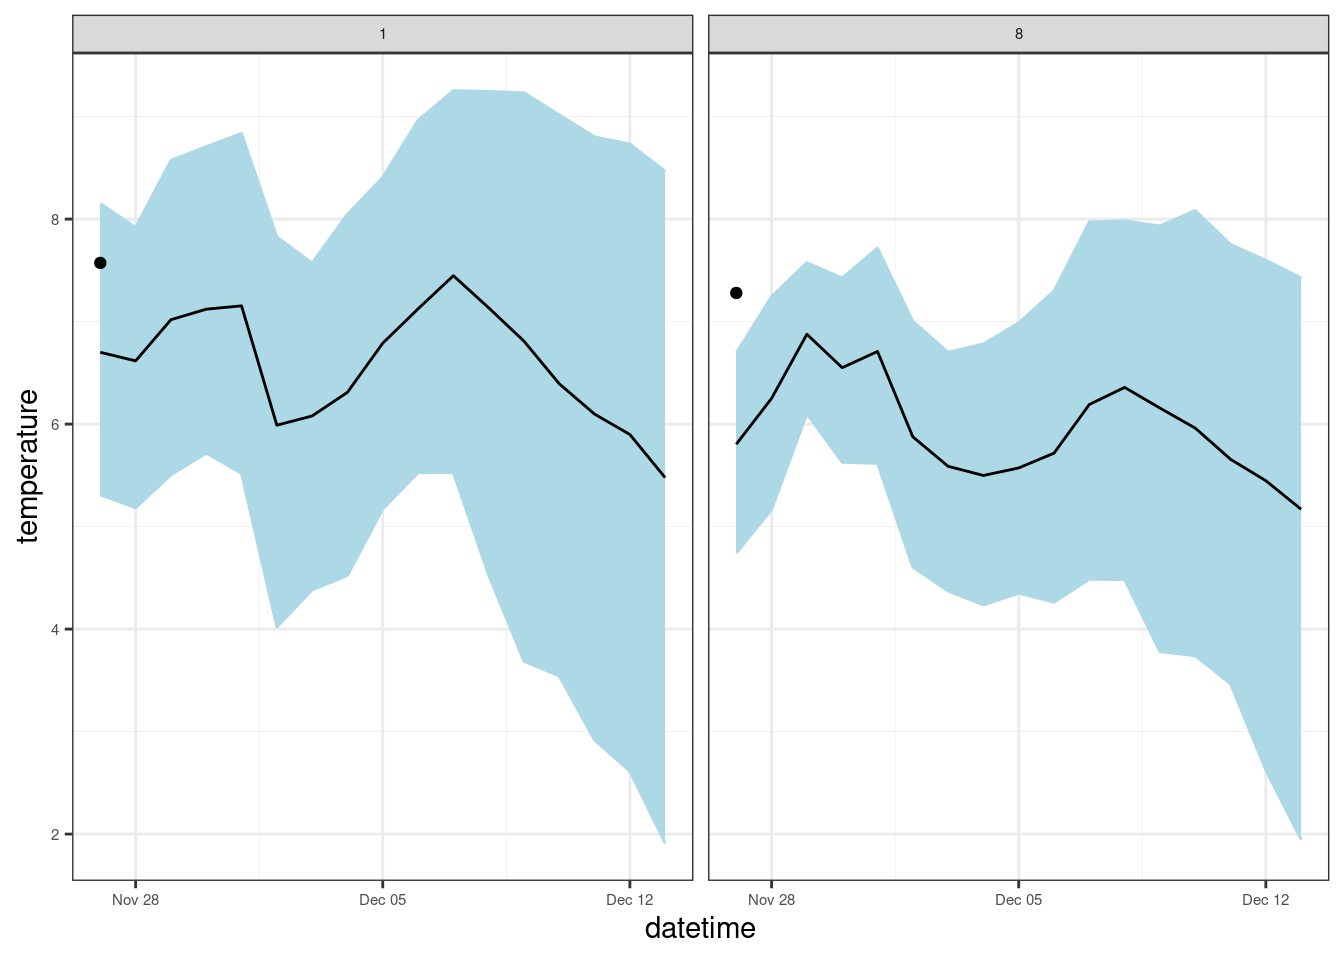
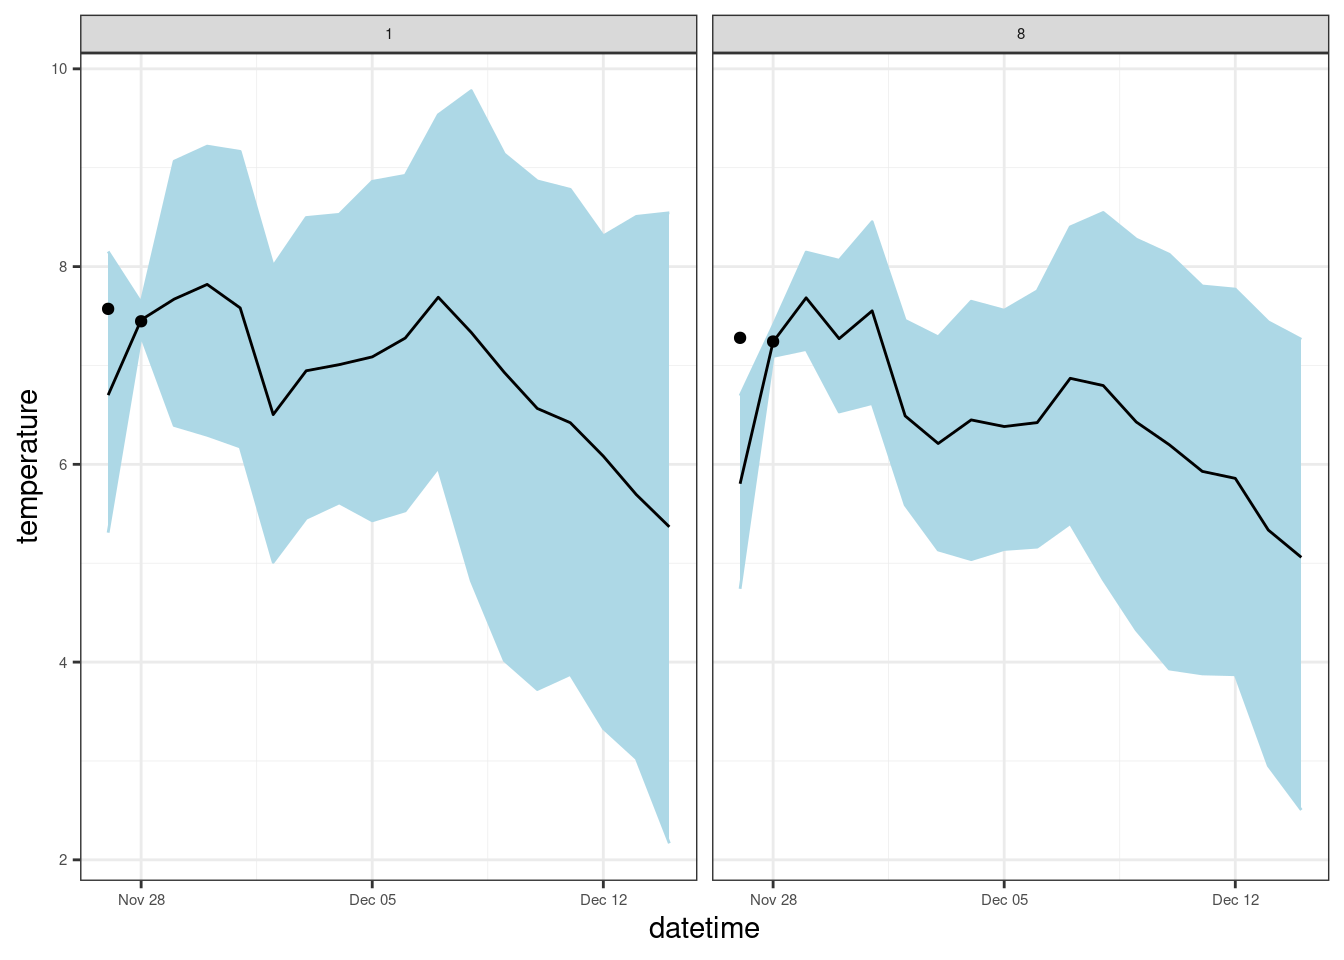
Re-build site

diff --git a/docs/index.html b/docs/index.html
@@ -158,15 +158,15 @@ background-size: cover;
 
 
 <p>Welcome to the Forecasting Lake and Reservoir Ecosystems (FLARE) dashboard!</p>
-<p>This page was last updated on 2022-11-28 07:22:42</p>
+<p>This page was last updated on 2022-11-28 11:39:15</p>
 <p>This site provides daily updates to visualize recent forecasts generated across the U.S.. This site is generated using <a href="https://quarto.org">quarto</a> and should be simple to customize for users familiar with RMarkdown. It is rendered daily using GitHub Actions.</p>
 <section id="flare-sites" class="level3">
 <h3 class="anchored" data-anchor-id="flare-sites">FLARE sites</h3>
 <div class="cell" data-fig.showtext="false">
 <div class="cell-output-display">
 
-<div id="htmlwidget-63def1cd5838476f63fb" style="width:100%;height:650px;" class="leaflet html-widget"></div>
-<script type="application/json" data-for="htmlwidget-63def1cd5838476f63fb">{"x":{"options":{"crs":{"crsClass":"L.CRS.EPSG3857","code":null,"proj4def":null,"projectedBounds":null,"options":{}}},"calls":[{"method":"createMapPane","args":["tmap401",401]},{"method":"addProviderTiles","args":["Esri.WorldGrayCanvas",null,"Esri.WorldGrayCanvas",{"minZoom":0,"maxZoom":18,"tileSize":256,"subdomains":"abc","errorTileUrl":"","tms":false,"noWrap":false,"zoomOffset":0,"zoomReverse":false,"opacity":1,"zIndex":1,"detectRetina":false,"pane":"tilePane"}]},{"method":"addProviderTiles","args":["OpenStreetMap",null,"OpenStreetMap",{"minZoom":0,"maxZoom":18,"tileSize":256,"subdomains":"abc","errorTileUrl":"","tms":false,"noWrap":false,"zoomOffset":0,"zoomReverse":false,"opacity":1,"zIndex":1,"detectRetina":false,"pane":"tilePane"}]},{"method":"addProviderTiles","args":["Esri.WorldTopoMap",null,"Esri.WorldTopoMap",{"minZoom":0,"maxZoom":18,"tileSize":256,"subdomains":"abc","errorTileUrl":"","tms":false,"noWrap":false,"zoomOffset":0,"zoomReverse":false,"opacity":1,"zIndex":1,"detectRetina":false,"pane":"tilePane"}]},{"method":"addCircles","args":[[36.7844114061088,37.6635965171619,43.9066902708153,35.0195968898079,31.7168425857225,44.2595413892778,46.9811335801907,48.7357220988727,48.3383190032058,31.5174265790204,-35.8228460313234],[-79.127080854061,-81.8271014712021,-72.9326243179281,-80.2185653118084,-82.1711863621007,-90.7793338521431,-91.2250862719393,-97.615418991158,-99.4818959119374,-82.7565754496066,138.492164102327],[206172.540166362,206172.540166362,206172.540166362,206172.540166362,206172.540166362,206172.540166362,206172.540166362,206172.540166362,206172.540166362,206172.540166362,206172.540166362],["Falling.Creek","Beaver.Dam","Lake.Sunapee","Carvins.Cove.Reservoir","Barco.Lake","Crampton.Lake","Little.Rock.Lake","Prairie.Lake","Prairie.Pothole","Suggs.Lake","Lake.Alexandrina"],"neon",{"interactive":true,"className":"","pane":"tmap401","stroke":true,"color":"#666666","weight":1,"opacity":0.5,"fill":true,"fillColor":["#FB8072","#FB8072","#8DD3C7","#FB8072","#FFFFB3","#FFFFB3","#FFFFB3","#FFFFB3","#FFFFB3","#FFFFB3","#BEBADA"],"fillOpacity":[1,1,1,1,1,1,1,1,1,1,1]},["<style> div.leaflet-popup-content {width:auto !important;overflow-y:auto; overflow-x:hidden;}<\/style><div style=\"max-height:25em;padding-right:0px;\"><table>\n\t\t\t   <thead><tr><th colspan=\"2\"><b>Falling Creek<\/b><\/th><\/thead><\/tr><tr><td style=\"color: #888888;\"><nobr>site_id<\/nobr><\/td><td align=\"right\"><nobr>Falling Creek<\/nobr><\/td><\/tr><\/table><\/div>","<style> div.leaflet-popup-content {width:auto !important;overflow-y:auto; overflow-x:hidden;}<\/style><div style=\"max-height:25em;padding-right:0px;\"><table>\n\t\t\t   <thead><tr><th colspan=\"2\"><b>Beaver Dam<\/b><\/th><\/thead><\/tr><tr><td style=\"color: #888888;\"><nobr>site_id<\/nobr><\/td><td align=\"right\"><nobr>Beaver Dam<\/nobr><\/td><\/tr><\/table><\/div>","<style> div.leaflet-popup-content {width:auto !important;overflow-y:auto; overflow-x:hidden;}<\/style><div style=\"max-height:25em;padding-right:0px;\"><table>\n\t\t\t   <thead><tr><th colspan=\"2\"><b>Lake Sunapee<\/b><\/th><\/thead><\/tr><tr><td style=\"color: #888888;\"><nobr>site_id<\/nobr><\/td><td align=\"right\"><nobr>Lake Sunapee<\/nobr><\/td><\/tr><\/table><\/div>","<style> div.leaflet-popup-content {width:auto !important;overflow-y:auto; overflow-x:hidden;}<\/style><div style=\"max-height:25em;padding-right:0px;\"><table>\n\t\t\t   <thead><tr><th colspan=\"2\"><b>Carvins Cove Reservoir<\/b><\/th><\/thead><\/tr><tr><td style=\"color: #888888;\"><nobr>site_id<\/nobr><\/td><td align=\"right\"><nobr>Carvins Cove Reservoir<\/nobr><\/td><\/tr><\/table><\/div>","<style> div.leaflet-popup-content {width:auto !important;overflow-y:auto; overflow-x:hidden;}<\/style><div style=\"max-height:25em;padding-right:0px;\"><table>\n\t\t\t   <thead><tr><th colspan=\"2\"><b>Barco Lake<\/b><\/th><\/thead><\/tr><tr><td style=\"color: #888888;\"><nobr>site_id<\/nobr><\/td><td align=\"right\"><nobr>Barco Lake<\/nobr><\/td><\/tr><\/table><\/div>","<style> div.leaflet-popup-content {width:auto !important;overflow-y:auto; overflow-x:hidden;}<\/style><div style=\"max-height:25em;padding-right:0px;\"><table>\n\t\t\t   <thead><tr><th colspan=\"2\"><b>Crampton Lake<\/b><\/th><\/thead><\/tr><tr><td style=\"color: #888888;\"><nobr>site_id<\/nobr><\/td><td align=\"right\"><nobr>Crampton Lake<\/nobr><\/td><\/tr><\/table><\/div>","<style> div.leaflet-popup-content {width:auto !important;overflow-y:auto; overflow-x:hidden;}<\/style><div style=\"max-height:25em;padding-right:0px;\"><table>\n\t\t\t   <thead><tr><th colspan=\"2\"><b>Little Rock Lake<\/b><\/th><\/thead><\/tr><tr><td style=\"color: #888888;\"><nobr>site_id<\/nobr><\/td><td align=\"right\"><nobr>Little Rock Lake<\/nobr><\/td><\/tr><\/table><\/div>","<style> div.leaflet-popup-content {width:auto !important;overflow-y:auto; overflow-x:hidden;}<\/style><div style=\"max-height:25em;padding-right:0px;\"><table>\n\t\t\t   <thead><tr><th colspan=\"2\"><b>Prairie Lake<\/b><\/th><\/thead><\/tr><tr><td style=\"color: #888888;\"><nobr>site_id<\/nobr><\/td><td align=\"right\"><nobr>Prairie Lake<\/nobr><\/td><\/tr><\/table><\/div>","<style> div.leaflet-popup-content {width:auto !important;overflow-y:auto; overflow-x:hidden;}<\/style><div style=\"max-height:25em;padding-right:0px;\"><table>\n\t\t\t   <thead><tr><th colspan=\"2\"><b>Prairie Pothole<\/b><\/th><\/thead><\/tr><tr><td style=\"color: #888888;\"><nobr>site_id<\/nobr><\/td><td align=\"right\"><nobr>Prairie Pothole<\/nobr><\/td><\/tr><\/table><\/div>","<style> div.leaflet-popup-content {width:auto !important;overflow-y:auto; overflow-x:hidden;}<\/style><div style=\"max-height:25em;padding-right:0px;\"><table>\n\t\t\t   <thead><tr><th colspan=\"2\"><b>Suggs Lake<\/b><\/th><\/thead><\/tr><tr><td style=\"color: #888888;\"><nobr>site_id<\/nobr><\/td><td align=\"right\"><nobr>Suggs Lake<\/nobr><\/td><\/tr><\/table><\/div>","<style> div.leaflet-popup-content {width:auto !important;overflow-y:auto; overflow-x:hidden;}<\/style><div style=\"max-height:25em;padding-right:0px;\"><table>\n\t\t\t   <thead><tr><th colspan=\"2\"><b>Lake Alexandrina<\/b><\/th><\/thead><\/tr><tr><td style=\"color: #888888;\"><nobr>site_id<\/nobr><\/td><td align=\"right\"><nobr>Lake Alexandrina<\/nobr><\/td><\/tr><\/table><\/div>"],null,["Falling Creek","Beaver Dam","Lake Sunapee","Carvins Cove Reservoir","Barco Lake","Crampton Lake","Little Rock Lake","Prairie Lake","Prairie Pothole","Suggs Lake","Lake Alexandrina"],{"interactive":false,"permanent":false,"direction":"auto","opacity":1,"offset":[0,0],"textsize":"10px","textOnly":false,"className":"","sticky":true},null,null]},{"method":"addLegend","args":[{"colors":["#8DD3C7","#FFFFB3","#BEBADA","#FB8072"],"labels":["LSPA","NEON","UWA","WVWA"],"na_color":null,"na_label":"NA","opacity":1,"position":"topright","type":"unknown","title":"Partner","extra":null,"layerId":"legend401","className":"info legend neon","group":"neon"}]},{"method":"addLayersControl","args":[["Esri.WorldGrayCanvas","OpenStreetMap","Esri.WorldTopoMap"],"neon",{"collapsed":true,"autoZIndex":true,"position":"topleft"}]}],"limits":{"lat":[-35.8228460313234,48.7357220988727],"lng":[-99.4818959119374,138.492164102327]},"fitBounds":[-35.436808,-74,48,139.168997,[]]},"evals":[],"jsHooks":[]}</script>
+<div id="htmlwidget-2361fc96b042ea8dcdb6" style="width:100%;height:650px;" class="leaflet html-widget"></div>
+<script type="application/json" data-for="htmlwidget-2361fc96b042ea8dcdb6">{"x":{"options":{"crs":{"crsClass":"L.CRS.EPSG3857","code":null,"proj4def":null,"projectedBounds":null,"options":{}}},"calls":[{"method":"createMapPane","args":["tmap401",401]},{"method":"addProviderTiles","args":["Esri.WorldGrayCanvas",null,"Esri.WorldGrayCanvas",{"minZoom":0,"maxZoom":18,"tileSize":256,"subdomains":"abc","errorTileUrl":"","tms":false,"noWrap":false,"zoomOffset":0,"zoomReverse":false,"opacity":1,"zIndex":1,"detectRetina":false,"pane":"tilePane"}]},{"method":"addProviderTiles","args":["OpenStreetMap",null,"OpenStreetMap",{"minZoom":0,"maxZoom":18,"tileSize":256,"subdomains":"abc","errorTileUrl":"","tms":false,"noWrap":false,"zoomOffset":0,"zoomReverse":false,"opacity":1,"zIndex":1,"detectRetina":false,"pane":"tilePane"}]},{"method":"addProviderTiles","args":["Esri.WorldTopoMap",null,"Esri.WorldTopoMap",{"minZoom":0,"maxZoom":18,"tileSize":256,"subdomains":"abc","errorTileUrl":"","tms":false,"noWrap":false,"zoomOffset":0,"zoomReverse":false,"opacity":1,"zIndex":1,"detectRetina":false,"pane":"tilePane"}]},{"method":"addCircles","args":[[39.2262916090598,36.2014532058894,46.9071598555944,37.5124168016075,29.611116909531,45.0130404260584,45.6470605417988,49.25318463707,48.8258954623463,29.8644715088903,-35.9375854024138],[-80.7366688268702,-81.4814424727628,-72.7449140701134,-82.9376247550489,-82.5941404467399,-88.1678075505337,-88.4910733218159,-97.9314191939506,-99.130187997801,-81.3405219091515,139.414648039075],[206172.540166362,206172.540166362,206172.540166362,206172.540166362,206172.540166362,206172.540166362,206172.540166362,206172.540166362,206172.540166362,206172.540166362,206172.540166362],["Falling.Creek","Beaver.Dam","Lake.Sunapee","Carvins.Cove.Reservoir","Barco.Lake","Crampton.Lake","Little.Rock.Lake","Prairie.Lake","Prairie.Pothole","Suggs.Lake","Lake.Alexandrina"],"neon",{"interactive":true,"className":"","pane":"tmap401","stroke":true,"color":"#666666","weight":1,"opacity":0.5,"fill":true,"fillColor":["#FB8072","#FB8072","#8DD3C7","#FB8072","#FFFFB3","#FFFFB3","#FFFFB3","#FFFFB3","#FFFFB3","#FFFFB3","#BEBADA"],"fillOpacity":[1,1,1,1,1,1,1,1,1,1,1]},["<style> div.leaflet-popup-content {width:auto !important;overflow-y:auto; overflow-x:hidden;}<\/style><div style=\"max-height:25em;padding-right:0px;\"><table>\n\t\t\t   <thead><tr><th colspan=\"2\"><b>Falling Creek<\/b><\/th><\/thead><\/tr><tr><td style=\"color: #888888;\"><nobr>site_id<\/nobr><\/td><td align=\"right\"><nobr>Falling Creek<\/nobr><\/td><\/tr><\/table><\/div>","<style> div.leaflet-popup-content {width:auto !important;overflow-y:auto; overflow-x:hidden;}<\/style><div style=\"max-height:25em;padding-right:0px;\"><table>\n\t\t\t   <thead><tr><th colspan=\"2\"><b>Beaver Dam<\/b><\/th><\/thead><\/tr><tr><td style=\"color: #888888;\"><nobr>site_id<\/nobr><\/td><td align=\"right\"><nobr>Beaver Dam<\/nobr><\/td><\/tr><\/table><\/div>","<style> div.leaflet-popup-content {width:auto !important;overflow-y:auto; overflow-x:hidden;}<\/style><div style=\"max-height:25em;padding-right:0px;\"><table>\n\t\t\t   <thead><tr><th colspan=\"2\"><b>Lake Sunapee<\/b><\/th><\/thead><\/tr><tr><td style=\"color: #888888;\"><nobr>site_id<\/nobr><\/td><td align=\"right\"><nobr>Lake Sunapee<\/nobr><\/td><\/tr><\/table><\/div>","<style> div.leaflet-popup-content {width:auto !important;overflow-y:auto; overflow-x:hidden;}<\/style><div style=\"max-height:25em;padding-right:0px;\"><table>\n\t\t\t   <thead><tr><th colspan=\"2\"><b>Carvins Cove Reservoir<\/b><\/th><\/thead><\/tr><tr><td style=\"color: #888888;\"><nobr>site_id<\/nobr><\/td><td align=\"right\"><nobr>Carvins Cove Reservoir<\/nobr><\/td><\/tr><\/table><\/div>","<style> div.leaflet-popup-content {width:auto !important;overflow-y:auto; overflow-x:hidden;}<\/style><div style=\"max-height:25em;padding-right:0px;\"><table>\n\t\t\t   <thead><tr><th colspan=\"2\"><b>Barco Lake<\/b><\/th><\/thead><\/tr><tr><td style=\"color: #888888;\"><nobr>site_id<\/nobr><\/td><td align=\"right\"><nobr>Barco Lake<\/nobr><\/td><\/tr><\/table><\/div>","<style> div.leaflet-popup-content {width:auto !important;overflow-y:auto; overflow-x:hidden;}<\/style><div style=\"max-height:25em;padding-right:0px;\"><table>\n\t\t\t   <thead><tr><th colspan=\"2\"><b>Crampton Lake<\/b><\/th><\/thead><\/tr><tr><td style=\"color: #888888;\"><nobr>site_id<\/nobr><\/td><td align=\"right\"><nobr>Crampton Lake<\/nobr><\/td><\/tr><\/table><\/div>","<style> div.leaflet-popup-content {width:auto !important;overflow-y:auto; overflow-x:hidden;}<\/style><div style=\"max-height:25em;padding-right:0px;\"><table>\n\t\t\t   <thead><tr><th colspan=\"2\"><b>Little Rock Lake<\/b><\/th><\/thead><\/tr><tr><td style=\"color: #888888;\"><nobr>site_id<\/nobr><\/td><td align=\"right\"><nobr>Little Rock Lake<\/nobr><\/td><\/tr><\/table><\/div>","<style> div.leaflet-popup-content {width:auto !important;overflow-y:auto; overflow-x:hidden;}<\/style><div style=\"max-height:25em;padding-right:0px;\"><table>\n\t\t\t   <thead><tr><th colspan=\"2\"><b>Prairie Lake<\/b><\/th><\/thead><\/tr><tr><td style=\"color: #888888;\"><nobr>site_id<\/nobr><\/td><td align=\"right\"><nobr>Prairie Lake<\/nobr><\/td><\/tr><\/table><\/div>","<style> div.leaflet-popup-content {width:auto !important;overflow-y:auto; overflow-x:hidden;}<\/style><div style=\"max-height:25em;padding-right:0px;\"><table>\n\t\t\t   <thead><tr><th colspan=\"2\"><b>Prairie Pothole<\/b><\/th><\/thead><\/tr><tr><td style=\"color: #888888;\"><nobr>site_id<\/nobr><\/td><td align=\"right\"><nobr>Prairie Pothole<\/nobr><\/td><\/tr><\/table><\/div>","<style> div.leaflet-popup-content {width:auto !important;overflow-y:auto; overflow-x:hidden;}<\/style><div style=\"max-height:25em;padding-right:0px;\"><table>\n\t\t\t   <thead><tr><th colspan=\"2\"><b>Suggs Lake<\/b><\/th><\/thead><\/tr><tr><td style=\"color: #888888;\"><nobr>site_id<\/nobr><\/td><td align=\"right\"><nobr>Suggs Lake<\/nobr><\/td><\/tr><\/table><\/div>","<style> div.leaflet-popup-content {width:auto !important;overflow-y:auto; overflow-x:hidden;}<\/style><div style=\"max-height:25em;padding-right:0px;\"><table>\n\t\t\t   <thead><tr><th colspan=\"2\"><b>Lake Alexandrina<\/b><\/th><\/thead><\/tr><tr><td style=\"color: #888888;\"><nobr>site_id<\/nobr><\/td><td align=\"right\"><nobr>Lake Alexandrina<\/nobr><\/td><\/tr><\/table><\/div>"],null,["Falling Creek","Beaver Dam","Lake Sunapee","Carvins Cove Reservoir","Barco Lake","Crampton Lake","Little Rock Lake","Prairie Lake","Prairie Pothole","Suggs Lake","Lake Alexandrina"],{"interactive":false,"permanent":false,"direction":"auto","opacity":1,"offset":[0,0],"textsize":"10px","textOnly":false,"className":"","sticky":true},null,null]},{"method":"addLegend","args":[{"colors":["#8DD3C7","#FFFFB3","#BEBADA","#FB8072"],"labels":["LSPA","NEON","UWA","WVWA"],"na_color":null,"na_label":"NA","opacity":1,"position":"topright","type":"unknown","title":"Partner","extra":null,"layerId":"legend401","className":"info legend neon","group":"neon"}]},{"method":"addLayersControl","args":[["Esri.WorldGrayCanvas","OpenStreetMap","Esri.WorldTopoMap"],"neon",{"collapsed":true,"autoZIndex":true,"position":"topleft"}]}],"limits":{"lat":[-35.9375854024138,49.25318463707],"lng":[-99.130187997801,139.414648039075]},"fitBounds":[-35.436808,-74,48,139.168997,[]]},"evals":[],"jsHooks":[]}</script>
 </div>
 </div>
 <p>This material is based upon work supported by the National Science Foundation as part of awards CNS-1737424, DBI-1933102, and DBI-1933016. Any opinions, findings, and conclusions or recommendations expressed in this material are those of the author(s) and do not necessarily reflect the views of the National Science Foundation.</p>

diff --git a/docs/bvre.html b/docs/bvre.html
@@ -151,7 +151,7 @@ background-size: cover;
 </div>
 <section id="most-recent-forecasts" class="level2">
 <h2 class="anchored" data-anchor-id="most-recent-forecasts">Most recent forecasts</h2>
-<p>This page was last updated on 2022-11-28 07:22:25</p>
+<p>This page was last updated on 2022-11-28 11:38:40</p>
 <p>The most recent forecast is from 2022-11-27 19:00:00.</p>
 <div class="cell" data-fig.showtext="false">
 <div class="cell-output-display">

diff --git a/docs/fcre.html b/docs/fcre.html
@@ -158,7 +158,7 @@ background-size: cover;
 <div class="cell" data-fig.showtext="false">
 
 </div>
-<p>The most recent forecast is from 2022-11-26 19:00:00 (Eastern U.S. time).</p>
+<p>The most recent forecast is from 2022-11-27 19:00:00 (Eastern U.S. time).</p>
 <div class="cell" data-fig.showtext="false">
 <div class="cell-output-display">
 <p><img src="fcre_files/figure-html/unnamed-chunk-4-1.png" class="img-fluid" width="672"></p>
